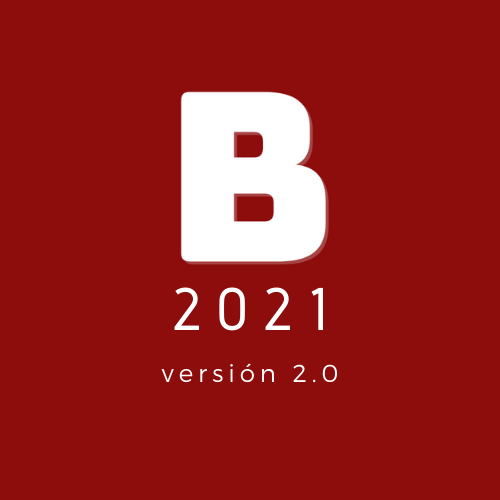
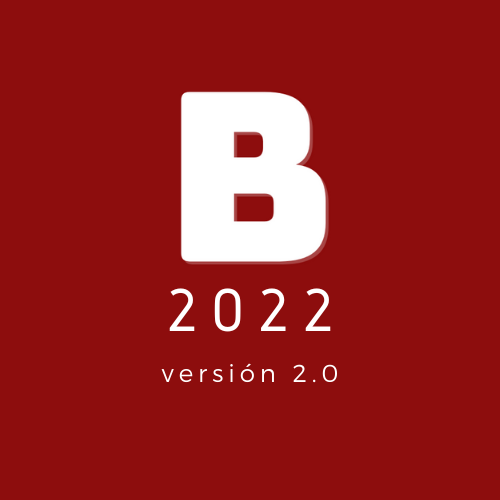
diseño y links

Changed region(s): [[0.42, 0.57, 0.66, 0.66], [0.33, 0.57, 0.39, 0.66]]

diff --git a/src/components/slider/Slides.jsx b/src/components/slider/Slides.jsx
@@ -4,37 +4,53 @@ import notiesImagen from "../../media/notiesImagen.png";
 import biesImagen2020 from "../../media/biesImagen2020.png";
 import biesImagen2021 from "../../media/biesImagen2021.png";
 import portfolioImagen from "../../media/portfolioImagen.png";
+import biesVideo2020 from "../../media/biesVideo2020.mp4";
+import notiesVideo from "../../media/notiesVideo.mp4";
+
 
 const slidesInfo = [
     {
         img: biesImagen2021,
-        alt: "Bies 2021",
-        desc: "Versión 2.0"
+        alt: "Bies 2022",
+        desc: "Versión 2.0",
+        link: "https://github.com/guidomagi23/Bies22",
+        video: ""
     },
     {
         img: biesImagen2020,
         alt: "Bies 2020",
-        desc: "Versión 1.0"
+        desc: "Versión 1.0",
+        link: "https://github.com/guidomagi23/Bies20",
+        video: biesVideo2020
     },
     {
         img: notiesImagen,
         alt: "Noties",
-        desc: "Versión 1.0"
+        desc: "Versión 1.0",
+        link: "https://github.com/guidomagi23/Noties",
+        video: notiesVideo
     },
     {
         img: portfolioImagen,
         alt: "Portfolio",
-        desc: " React.JS"
+        desc: " React.JS",
+        link: "https://github.com/guidomagi23/miportfolio",
+        video: "https://guidomagi23.github.io/miportfolio/"
     }
 
 ]
 
 const slides = slidesInfo.map((slide) => (
     <div className="slide-container">
-        <img src={slide.img} alt={slide.alt} />
+        <a className="img" href={slide.video}><img src={slide.img}/> </a>             
         <div className="slide-desc">
             <span>{slide.alt}</span>
-            <p>{slide.desc}</p>
+            <a className="slide-link" href={slide.link} target="_blank" rel='noreferrer'>
+                <i className='fab fa-github github'></i>
+            </a>
+            <a className="slide-video" href={slide.video}  rel='noreferrer'>
+                <i className='fab fa-solid fa-film film'></i>
+            </a>
         </div>
     </div>
 

diff --git a/src/components/slider/Slider.css b/src/components/slider/Slider.css
@@ -3,7 +3,7 @@
     flex-direction: initial;
     align-items: center;
     background-color: black;
-    padding: 30px 0 30px 0;
+    padding: 20px 0 30px 0;
 
 }
 
@@ -24,7 +24,7 @@
     display: flex;
 }
 
-.slide-container>img {
+/*.slide-container > img {
     object-fit: contain;
     transition: 0.5s;
 }
@@ -32,6 +32,12 @@
 .slide-container:hover>img {
     transform: scale(1.1);
     opacity: 0.7;
+}*/
+
+.img {
+    object-fit: contain;
+    transition: 0.5s;
+    display: flex;
 }
 
 .slide-desc {
@@ -39,34 +45,56 @@
     position: absolute;
     bottom: 0;
     right: 0;
-    width: 70%;
-    padding-left: 30px;
-    border-top-left-radius: 20px;
+    padding: 20px 20px 20px 20px;
+    border-top-left-radius: 35px;
     opacity: 0.7;
+    
 }
 
 .slide-desc>span {
     color: white;
     display: block;
     font-size: 22px;
-    padding: 20px 0 5px 10px;
+    padding: 0px 3 0px 0px;
     text-align: left;
 }
 
-.slide-desc>p {
-    color: white;
-    display: block;
+.slide-desc > a {
+    color: rgb(255, 255, 255);
     text-align: center;
-    font-size: 15px;
-    padding: 1px 0 10px 10px;
+    font-size: 15px;    
+}
+
+.slide-link > .github {
+    color: rgb(247, 247, 247);
+    font-size: 30px;
+    padding: 3px;
+    border-radius: 50%;
+    background-color: #000000;
+    transition: 0.7s;
+}
+
+.github:hover {
+    background-color: #ffffff;   
+}
+
+.slide-video > .film {
+    color: rgb(255, 255, 255);
+    font-size: 30px;
+    padding: 3px;
+    border-radius: 30%;
+    transition: 0.7s;
+}
+
+.film:hover {
+    background-color: #ffffff;   
+    color : #000000;
 }
 
 .BrainhubCarousel__arrows {
     background-color: white;
     border-radius: 50%;
     margin: 20px;
-
-
 }
 
 .BrainhubCarousel__arrows>span {

diff --git a/src/components/cover/Cover.css b/src/components/cover/Cover.css
@@ -20,18 +20,35 @@
 
 .cover-container>h1 {
     color: white;
-    font-size: 100px;
+    font-size: 120px;
 }
 
-.cover-container>p {
+.cover-container>h2 {
     color: white;
-    font-size: 32px;
+    font-size: 40px;
     margin-top: 5px;
+}
+
+.cover-container>h3 {
+    color: rgb(255, 255, 255);
+    font-size: 20px;
+    margin-top: 5px;
+        
 }
 
 @media only screen and (max-width: 960px) {
     .cover-container>h1 {
-        font-size: 70px;
+        font-size: 60px;
+        text-align: center;
+    }
+
+    .cover-container>h2 {
+        font-size: 30px;
+        text-align: center;
+    }
+
+    .cover-container>h3 {
+        font-size: 15px;
         text-align: center;
     }
 

diff --git a/src/components/cover/Cover.jsx b/src/components/cover/Cover.jsx
@@ -7,7 +7,8 @@ const Cover = () => {
     <div className='cover-container'>
       <video className='video' src={coverVideo} autoPlay loop muted />
       <h1>Guido Magi</h1>
-      <p>Desarrollador de Software</p>
+      <h2>Desarrollador de Software</h2>
+      <h3>React.JS | JavaScript | CSS | HTML | SQL | Java</h3>
 
     </div>
   )
